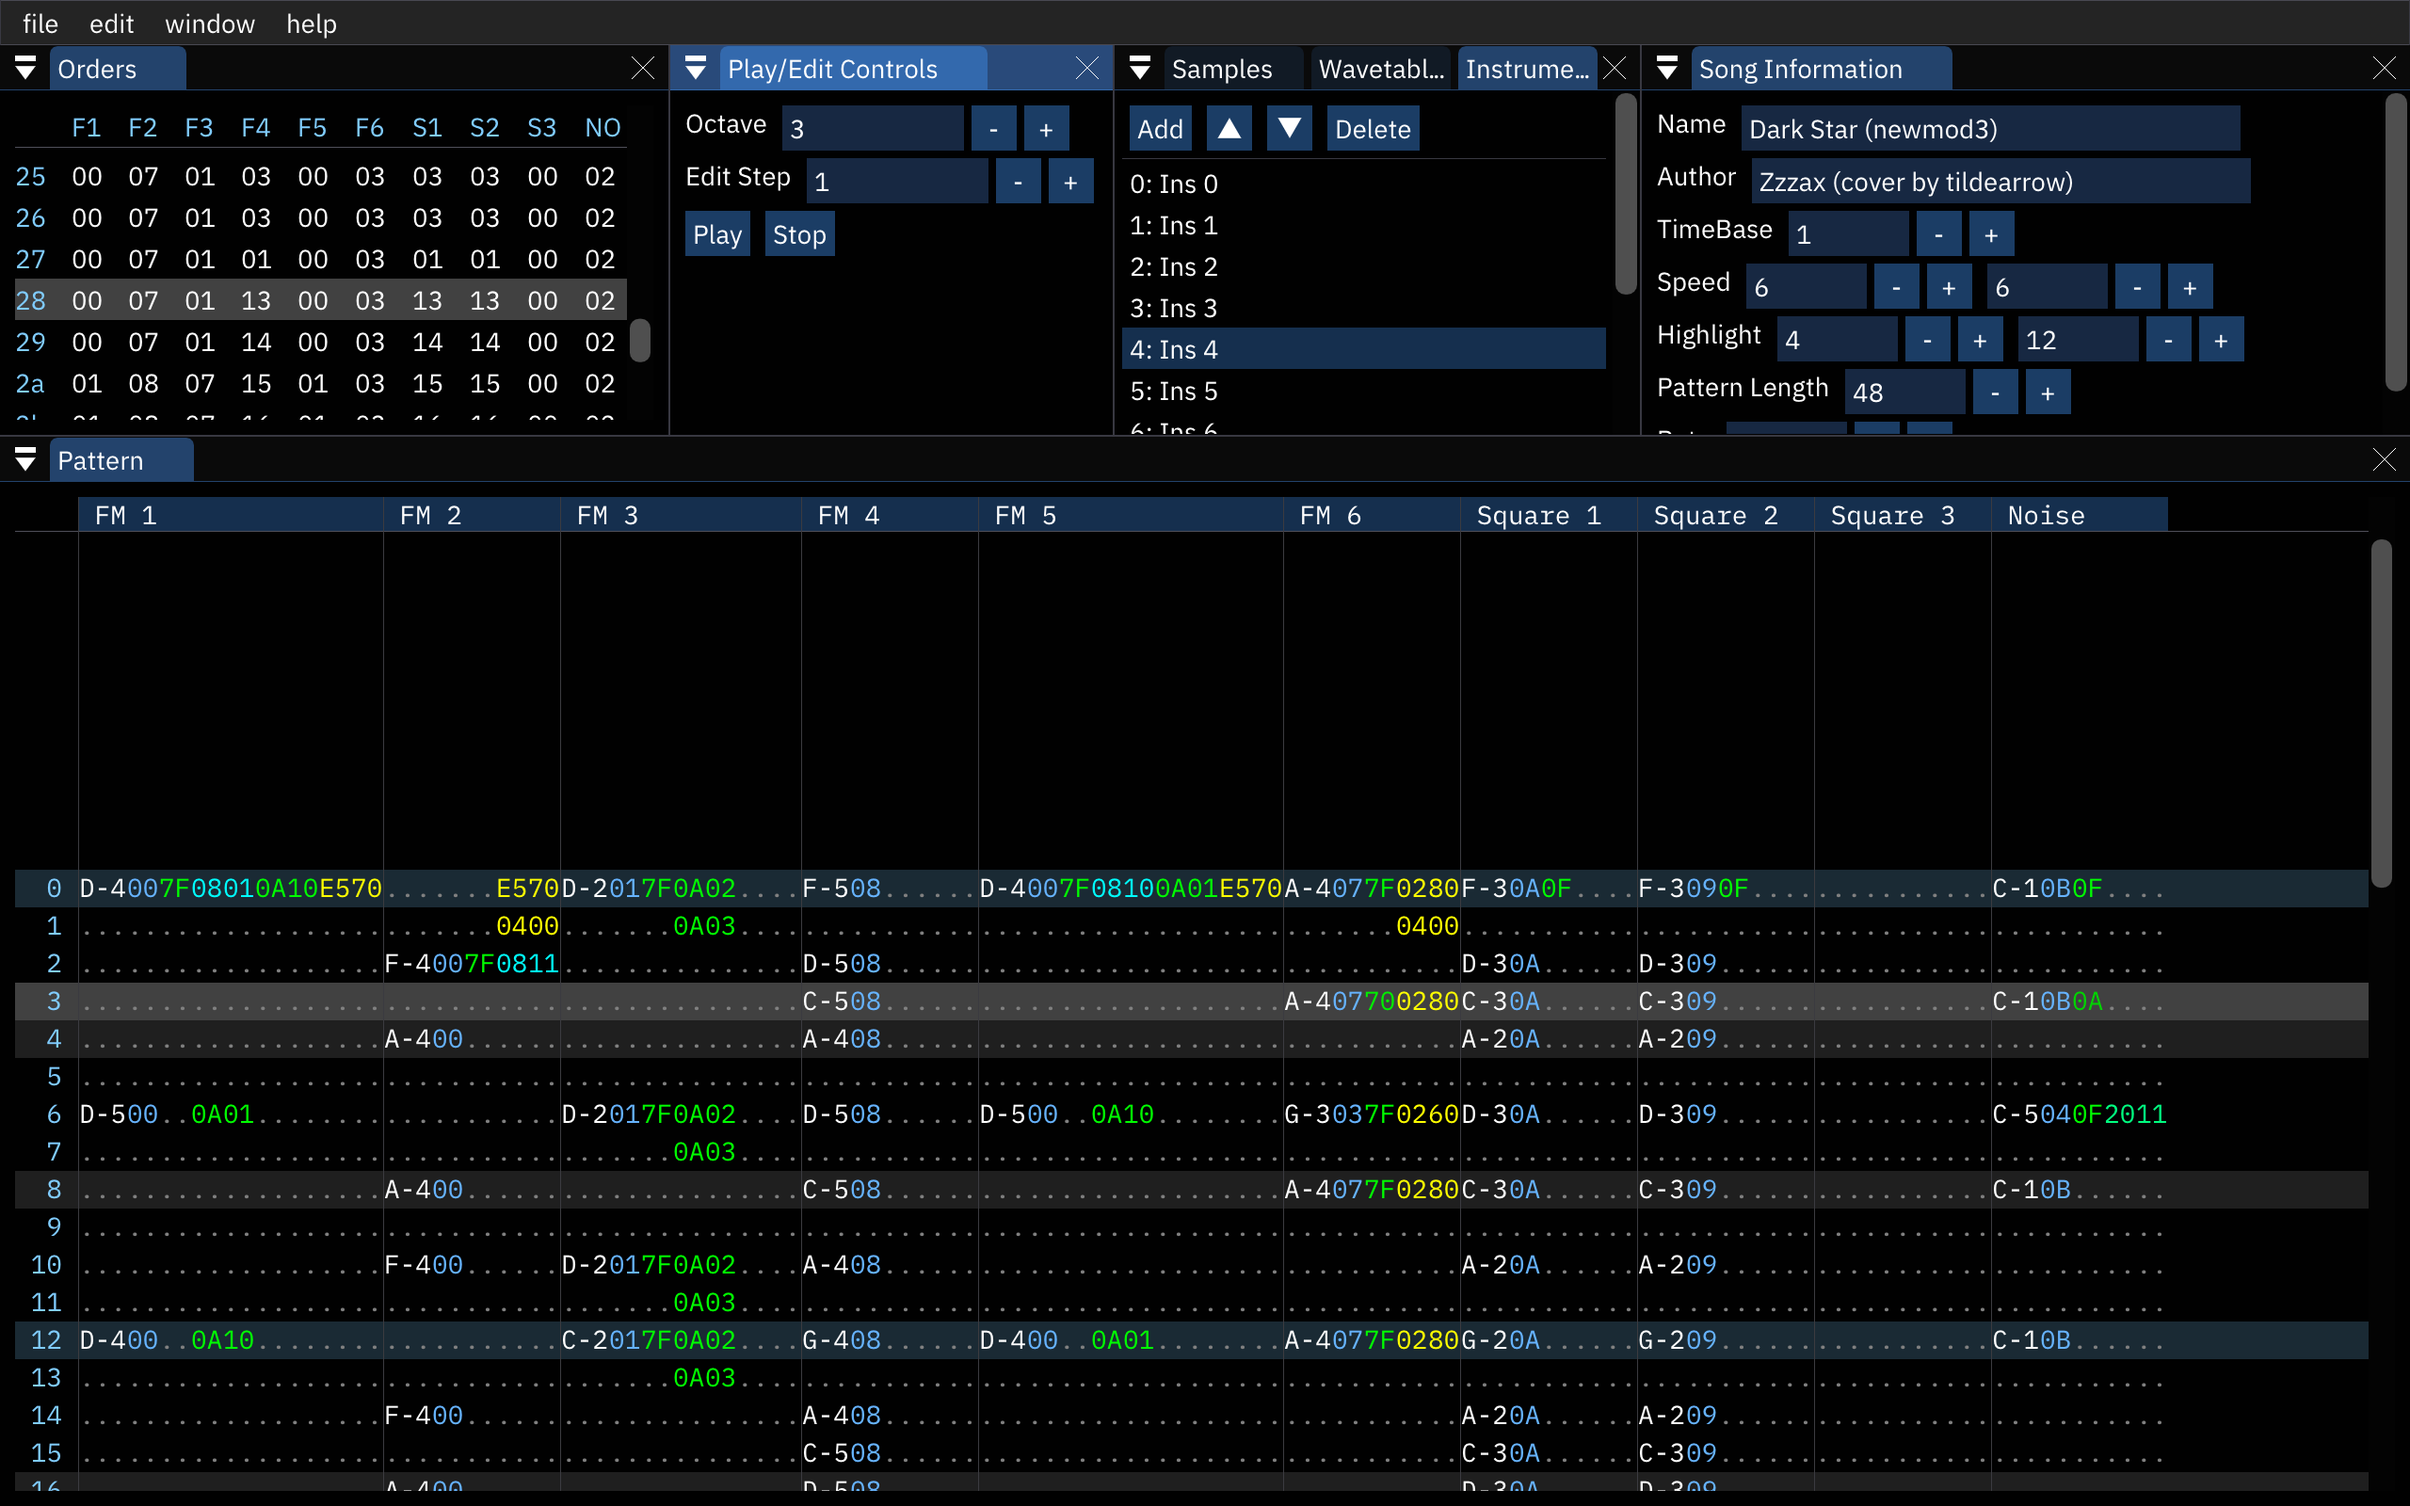
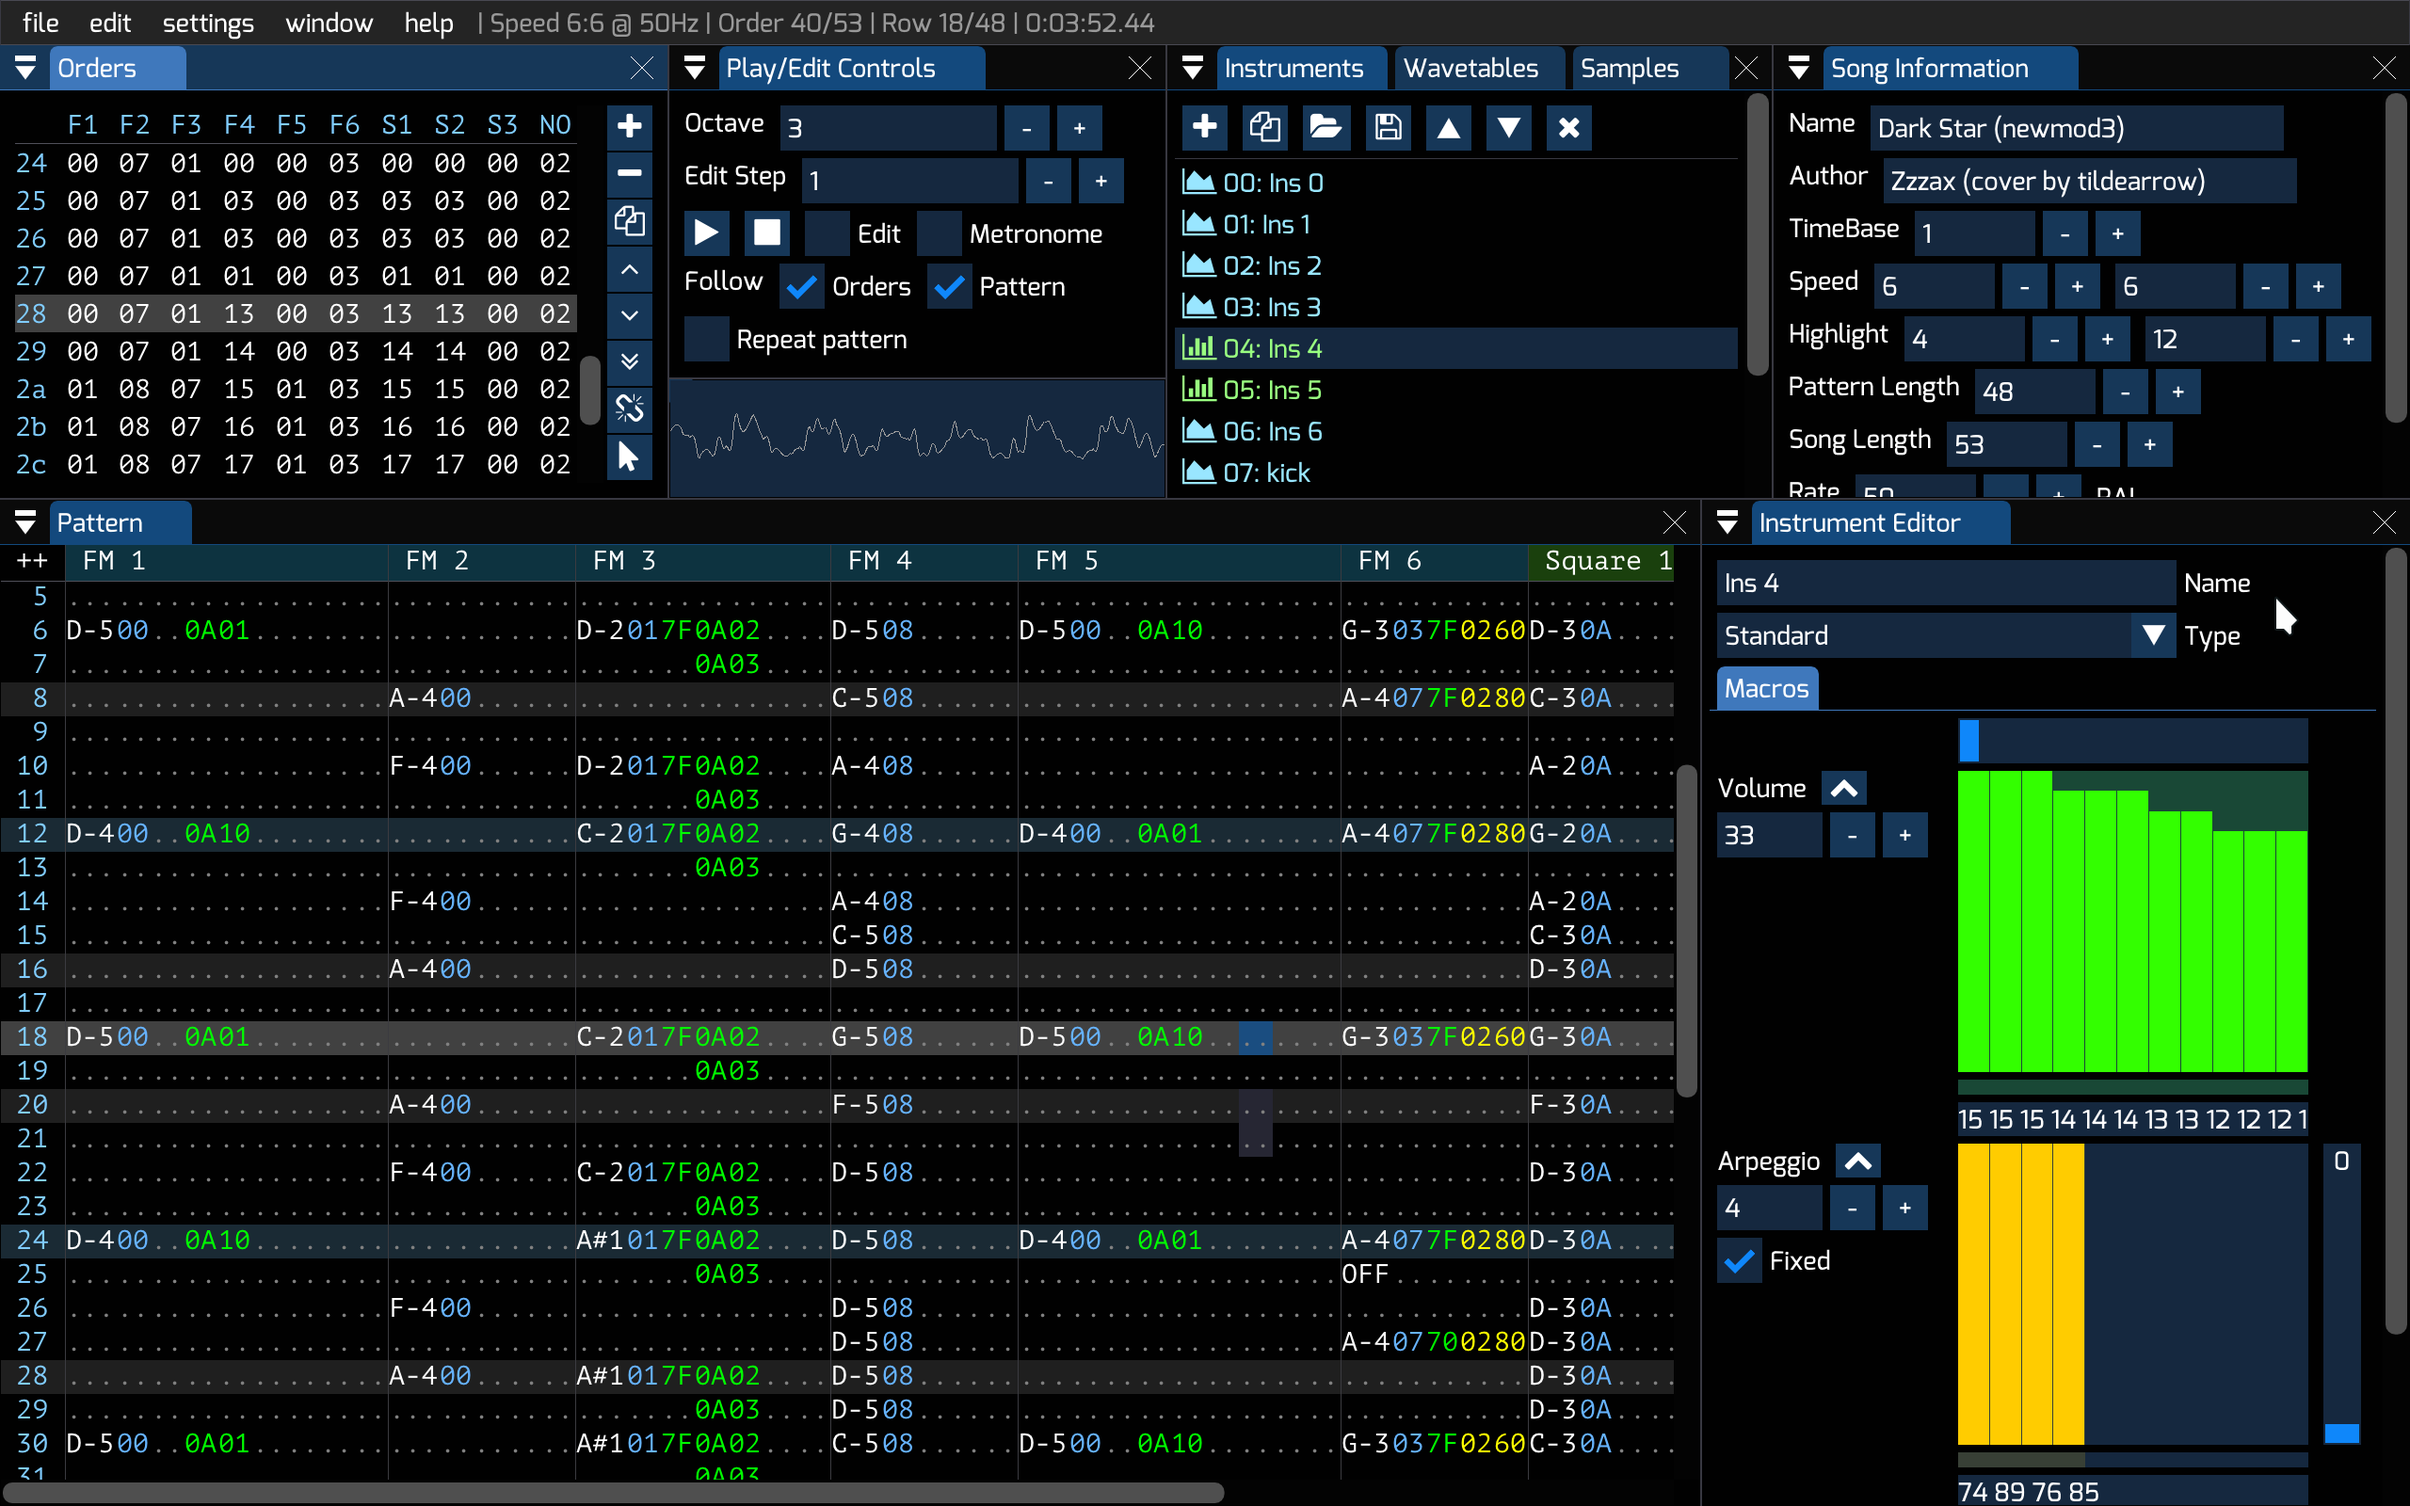
update readme and screenshot
to reflect upcoming 0.5 version

diff --git a/README.md b/README.md
@@ -1,4 +1,4 @@
-# Furnace
+# Furnace Tracker
 
 ![screenshot](papers/screenshot.png)
 
@@ -23,12 +23,16 @@ this is a work-in-progress chiptune tracker compatible with DefleMask modules (.
 - multiple sound chips in a single song!
 - clean-room design (zero reverse-engineered code and zero decompilation; using official DMF specs, guesswork and ABX tests only)
 - bug/quirk implementation for increased playback accuracy
+- VGM and audio file export
 - accurate emulation cores whether possible (Nuked, MAME, SameBoy, Mednafen PCE, puNES, reSID, Stella and ymfm)
 - additional features on top:
+  - FM macros!
+  - arbitrary pitch samples
+  - sample loop points
   - SSG envelopes in Neo Geo
   - full duty/cutoff range in C64
   - ability to change tempo mid-song with `Cxxx` effect (`xxx` between `000` and `3ff`)
-- open-source. GPLv2.
+- open-source under GPLv2.
 
 ## downloads
 
